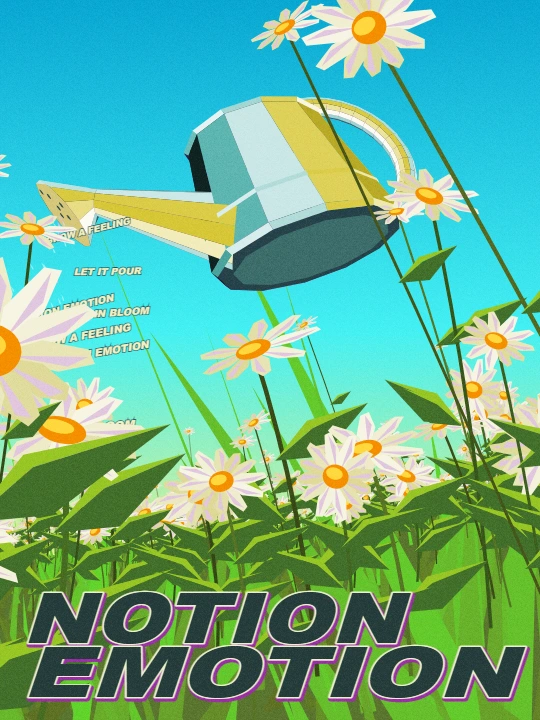
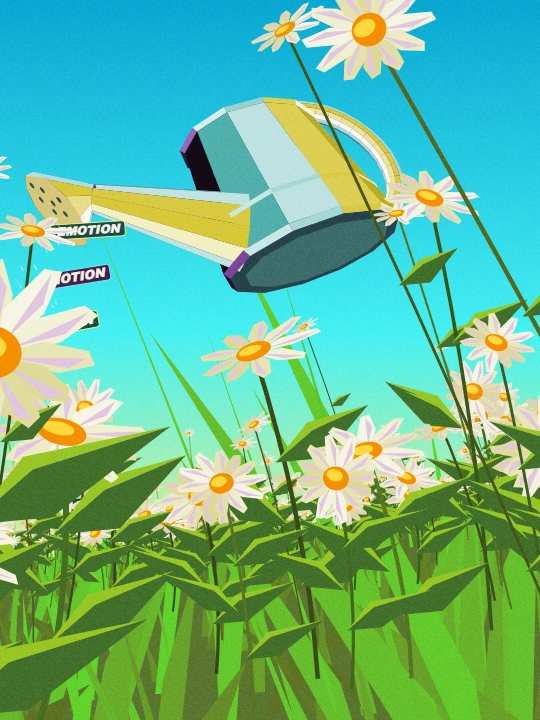
Add lens and watering can controls with falling Motion Emotion capsules

diff --git a/public/tools/rocio/scene.js b/public/tools/rocio/scene.js
@@ -2,7 +2,7 @@
 const TAU = Math.PI * 2
 const { sin, cos, hypot } = Math
 export const defaults = { lens: .58, altitude: .18, angle: -8, zoom: 1, grain: .23,
-  facets: 12, hue: 0, duration: 8, showers: 2 }
+  squeeze: 1, cylinder: 0, pitch: 22, canTilt: 19, canTurn: -25, facets: 12, hue: 0, duration: 8, showers: 2 }
 function seeded(seed) {
   return () => ((seed = (Math.imul(seed, 1664525) + 1013904223) >>> 0) / 4294967296)
 }
@@ -31,7 +31,7 @@ for (let i=0; i<pixels.data.length; i+=4) {
 noiseCtx.putImageData(pixels,0,0)
 const posterTexture = new WeakMap()
 
-export function render(ctx, phase, p, phrases) {
+export function render(ctx, phase, p) {
   const W = 1080, H = 1440, t = phase * TAU
   ctx.save()
   ctx.scale(ctx.canvas.width/W,ctx.canvas.height/H)
@@ -44,8 +44,11 @@ export function render(ctx, phase, p, phrases) {
   ctx.fillStyle = gradient
   ctx.fillRect(0,0,W,H)
   const roll = p.angle*Math.PI/180 + .018*sin(t)
-  const pitch = .38 + .035*cos(t)
+  const pitch = p.pitch*Math.PI/180 + .035*cos(t)
   const dx = .09*sin(t)
+  ctx.translate(540,0)
+  ctx.scale(1/p.squeeze,1)
+  ctx.translate(-540,0)
   function project([x,y,z]) {
     x -= dx
     y -= p.altitude
@@ -55,7 +58,10 @@ export function render(ctx, phase, p, phrases) {
     const perspective = 1/Math.max(.24,depth)
     const fish = Math.atan2(r,depth)/Math.max(r,.0001)
     const scale = 880*p.zoom*((1-p.lens)*perspective+p.lens*fish)
-    return [540+(x*cos(roll)+up*sin(roll))*scale,660+(x*sin(roll)-up*cos(roll))*scale,scale]
+    const focal=880*p.zoom
+    const horiz=x*scale*(1-p.cylinder)+focal*Math.atan2(x,depth)*p.cylinder
+    const vert=up*(scale*(1-p.cylinder)+focal/Math.max(.24,hypot(x,depth))*p.cylinder)
+    return [540+horiz*cos(roll)+vert*sin(roll),660+horiz*sin(roll)-vert*cos(roll),scale]
   }
   function polygon(points,fill) {
     ctx.beginPath()
@@ -73,7 +79,7 @@ export function render(ctx, phase, p, phrases) {
     const base=project([x,-.22,z])
     const head=project([x+sway+.11*sin(seed)*h,h,z])
     const s=head[2]*size
-    if (head[0]<-s*3 || head[0]>W+s*3) return
+    if (Math.abs(head[0]-540)>540*p.squeeze+s*3) return
     const mid=[(base[0]+head[0])*.5+s*.55,(base[1]+head[1])*.5]
     ctx.strokeStyle=color(83+9*sin(seed),52,24+6*cos(seed))
     ctx.lineWidth=Math.max(1,s*.12)
@@ -114,7 +120,7 @@ export function render(ctx, phase, p, phrases) {
   for(const f of flowers) { if(f.z>3) flower(f); else near.push(f) }
 
   const faces=[]
-  const tilt=.24+.08*sin(t), twist=-.29+.14*cos(t)
+  const tilt=p.canTilt*Math.PI/180+.08*sin(t), twist=p.canTurn*Math.PI/180+.14*cos(t)
   function world([x,y,z]) {
     const a=x*cos(tilt)-y*sin(tilt), b=x*sin(tilt)+y*cos(tilt)
     return [.26+a*cos(twist)+z*sin(twist),2.53+b+.065*cos(t),2.72-a*sin(twist)+z*cos(twist)]
@@ -172,34 +178,35 @@ export function render(ctx, phase, p, phrases) {
   for(const f of faces)polygon(f.points,f.paint)
   const nozzle=world([-1.72,.25,0])
   for(let j=0;j<drops.length;j++) {
-    const d=drops[j],u=(phase*p.showers+d.phase)%1
+    const d=drops[j],u=(phase*p.showers+(j<6 ? j/6 : d.phase))%1
     const pos=project([nozzle[0]-.46*u+d.spread*u*.96,nozzle[1]-.26*u-2.48*u*u,nozzle[2]+u*.6+d.drift*u*.8])
     const fade=Math.min(1,u*13,(1-u)*6)
-    ctx.save();ctx.globalAlpha=fade*(j<8?.95:.77)
+    ctx.save();ctx.globalAlpha=fade*(j<6?.98:.77)
     ctx.translate(pos[0],pos[1]);ctx.rotate(-.14+.25*d.spread)
-    if(j<8 && phrases.length) {
-      ctx.font='italic 900 '+Math.round(16+9*u)+'px Arial, sans-serif'
-      ctx.lineWidth=3;ctx.strokeStyle=color(190,48,22)
-      const line=phrases[j%phrases.length]
-      ctx.strokeText(line,0,0,210);ctx.fillStyle=color(53,90,88);ctx.fillText(line,0,0,210)
+    if(j<6) {
+      const word=j%2 ? 'EMOTION' : 'MOTION'
+      const size=23+7*u
+      ctx.font='italic 900 '+size+'px Arial, sans-serif'
+      const width=ctx.measureText(word).width+22
+      ctx.beginPath()
+      ctx.roundRect(-9,-size*.94,width,size*1.24,6)
+      ctx.fillStyle=color(j%2 ? 188 : 298,48,19)
+      ctx.fill()
+      ctx.lineWidth=2
+      ctx.strokeStyle=color(j%2 ? 65 : 185,88,71)
+      ctx.stroke()
+      ctx.fillStyle=color(55,72,94)
+      ctx.fillText(word,2,0)
     } else {
       polygon([[0,0],[-2,-10-u*7],[2,-4],[3,1]],color(j%4?181:304,86,84))
     }
     ctx.restore()
   }
   for(const f of near) flower(f)
-  // Wordmark de póster, con dos planchas de color desplazadas.
-  ctx.font='italic 900 140px Arial Black, Arial, sans-serif'
-  ctx.textAlign='left';ctx.lineJoin='round'
-  for(const [word,y] of [['NOTION',1286],['EMOTION',1394]]) {
-    ctx.save()
-    ctx.translate(44,y)
-    ctx.scale((word==='NOTION'?760:987)/ctx.measureText(word).width,1)
-    ctx.lineWidth=10;ctx.strokeStyle=color(294,57,42);ctx.strokeText(word,2,3)
-    ctx.lineWidth=5;ctx.strokeStyle=color(69,56,87);ctx.strokeText(word,0,0)
-    ctx.fillStyle=color(179,23,19);ctx.fillText(word,0,0)
-    ctx.restore()
-  }
+  // La textura cubre todo el sensor incluso con compresión anamórfica.
+  ctx.translate(540,0)
+  ctx.scale(p.squeeze,1)
+  ctx.translate(-540,0)
   if(p.grain) {
     if(!posterTexture.has(ctx)) posterTexture.set(ctx,ctx.createPattern(noise,'repeat'))
     ctx.save(); ctx.globalCompositeOperation='soft-light';ctx.globalAlpha=p.grain

diff --git a/public/tools/rocio/control.js b/public/tools/rocio/control.js
@@ -18,7 +18,10 @@ const settings = { ...defaults }
 const canvas = $('poster')
 const context = canvas.getContext('2d', { alpha: false })
 const groups = [
-  ['Cámara', [['lens','Ojo de pez',0,1,.01], ['altitude','Altura de cámara',.04,.55,.01],
+  ['Óptica', [['lens','Ojo de pez',0,1,.01], ['squeeze','Compresión anamórfica (×)',.8,1.8,.01],
+    ['cylinder','Panorámica cilíndrica',0,1,.01]]],
+  ['Regadera', [['canTilt','Inclinación (°)',-22,55,1],['canTurn','Giro lateral (°)',-65,45,1]]],
+  ['Cámara', [['pitch','Elevación (°)',12,36,1], ['altitude','Altura de cámara',.04,.55,.01],
     ['angle','Ángulo (°)',-26,26,1], ['zoom','Zoom',.72,1.24,.01]]],
   ['Estilo', [['facets','Facetas del metal',6,24,1], ['grain','Grano',0,1,.01], ['hue','Hue (°)',-180,180,1]]],
   ['Ritmo', [['showers','Caídas por loop',1,5,1], ['duration','Duración (s)',2,16,.5]]]
@@ -53,14 +56,11 @@ for (const [section,controls] of groups) {
     $('sliders').append(row)
   }
 }
-function lines() {
-  return $('phrases').value.split('\n').map(s=>s.trim()).filter(Boolean)
-}
 let playing=true, exporting=false, phase=0, previous=performance.now()
 function frame(now) {
   if(playing && !exporting) phase=(phase+(now-previous)/(settings.duration*1000))%1
   previous=now
-  if(!exporting) render(context,phase,settings,lines())
+  if(!exporting) render(context,phase,settings)
   requestAnimationFrame(frame)
 }
 requestAnimationFrame(frame)
@@ -74,7 +74,7 @@ GlamRec.montar({contenedor:$('recSlot'),clase:'cam-btn',nombre:'rocio',manual:fa
 $('bLoop').onclick=async()=>{
   if(exporting) return
   const btn=$('bLoop'), info=$('loopInfo')
-  const params={...settings}, text=lines(), fps=60, total=params.duration*fps
+  const params={...settings}, fps=60, total=params.duration*fps
   const status=msg=>{info.textContent=msg}
   const controls=[...document.querySelectorAll('#sidebar button, #sidebar input, #sidebar textarea')]
   const disabled=controls.map(el=>el.disabled)
@@ -95,7 +95,7 @@ $('bLoop').onclick=async()=>{
     encoder.configure(config)
     for(let i=0;i<total;i++) {
       if(failure) throw failure
-      render(context,i/total,params,text)
+      render(context,i/total,params)
       const video=new VideoFrame(canvas,{timestamp:Math.round(i*1e6/fps),duration:Math.round((i+1)*1e6/fps)-Math.round(i*1e6/fps)})
       try { encoder.encode(video,{keyFrame:i%fps===0}) } finally { video.close() }
       if(encoder.encodeQueueSize>6) await encoder.flush()

diff --git a/public/tools/rocio.html b/public/tools/rocio.html
@@ -127,12 +127,6 @@
           </div>
           <div class="daisy-panel y-panel">
             
-            <div class="y-sec">lluvia tipográfica</div>
-            <label for="phrases">Frases · una por línea</label>
-            <textarea class="y-txt" id="phrases" rows="4" maxlength="240">NOTION EMOTION
-FEEL IN BLOOM
-LET IT POUR
-GROW A FEELING</textarea>
             <div id="sliders"></div>
             <div class="y-sec">reproducción</div>
             <button class="cam-btn" id="play">PAUSAR LOOP</button>
